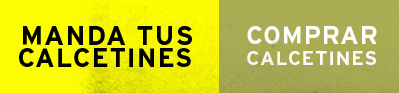
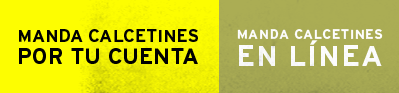
updated translation

Changed region(s): [[0.5714, 0.2796, 0.9624, 0.7097], [0.0301, 0.5161, 0.5113, 0.7312], [0.0301, 0.2796, 0.5113, 0.4946]]

diff --git a/app/assets/stylesheets/application.css b/app/assets/stylesheets/application.css
@@ -226,9 +226,9 @@ h2#buy_socks a:hover {
 #find_out_more a {
 	display: block;
 	background: url(/assets/find_out_more.jpg) no-repeat 0 0;
-	width: 170px;
+	width: 160px;
 	height: 56px;
-	padding: 37px 90px 0 20px;
+	padding: 37px 100px 0 20px;
 	color: #fff;
 	font-size: 13px;
 	font-weight: normal;
@@ -246,8 +246,16 @@ h2#buy_socks a:hover {
 	background: #fff url(/assets/send_your_socks.jpg);
 	
 }
+.hl_es #send_socks_info {
+	background: #fff url(/assets/send_your_socks.es.jpg);
+	
+}
 #buy_socks_info {
 	background: #fff url(/assets/buy_some_socks.jpg);
+	
+}
+.hl_es #buy_socks_info {
+	background: #fff url(/assets/buy_some_socks.es.jpg);
 	
 }
 .info_box_title {
@@ -256,7 +264,10 @@ h2#buy_socks a:hover {
 div.send_socks_info {
   float: left;
   width: 250px;
-  margin: 150px 0 0 35px;
+  margin: 150px 0 0 30px;
+}
+.hl_es div.send_socks_info {
+  margin: 110px 0 0 16px;
 }
 div.send_socks_info p {
   font-size: 14px;
@@ -280,8 +291,30 @@ div.send_socks_tag {
 	float: left;
 	width: 170px;
 }
+.hl_es div.send_socks_tag {
+  width: 180px;
+}
 
-
+a#buy_btn {
+	display: block;
+	background: url(/assets/buy_btn.png) no-repeat 0 0;
+	text-indent: -9000em;
+	width: 110px;
+	height: 44px;
+	position: absolute;
+	bottom: -50px;
+	left: 0;
+  
+}
+.hl_es a#buy_btn {
+  background: url(/assets/buy_btn.es.png) no-repeat 0 0;
+  width: 180px;
+  height: 34px;
+  bottom: -37px;
+}
+a#buy_btn:hover {
+  -webkit-box-shadow:0px 0px 6px rgba(0,0,0,0.2), 0px 2px 2px rgba(0,0,0,0.2);
+} 
 /*========== Twitter stream ==========*/
 
 #tweet_stream {
